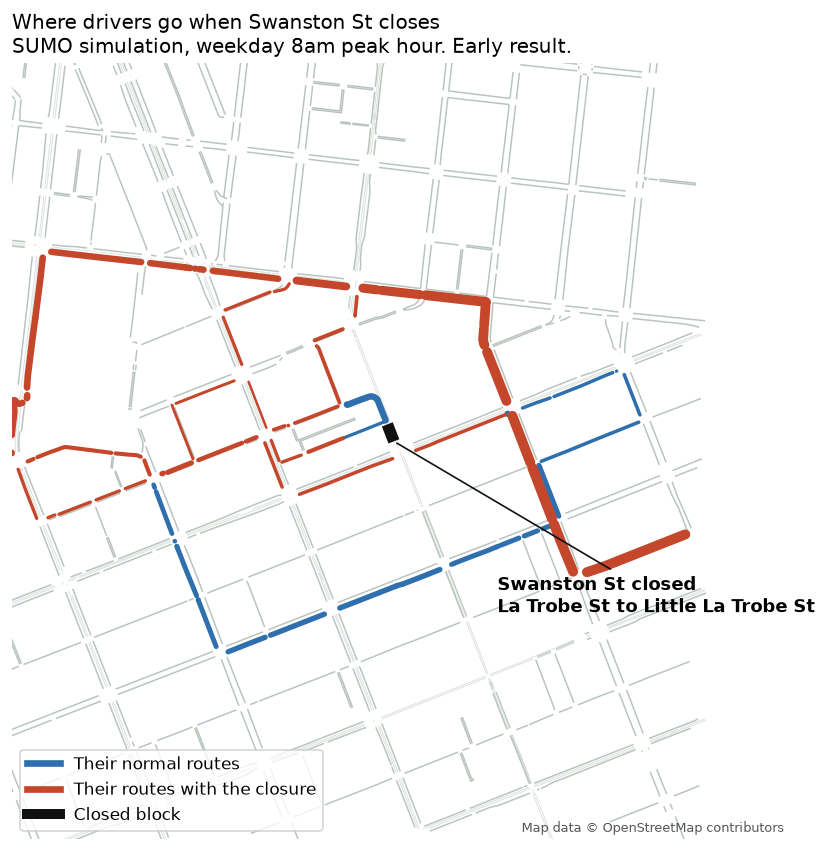
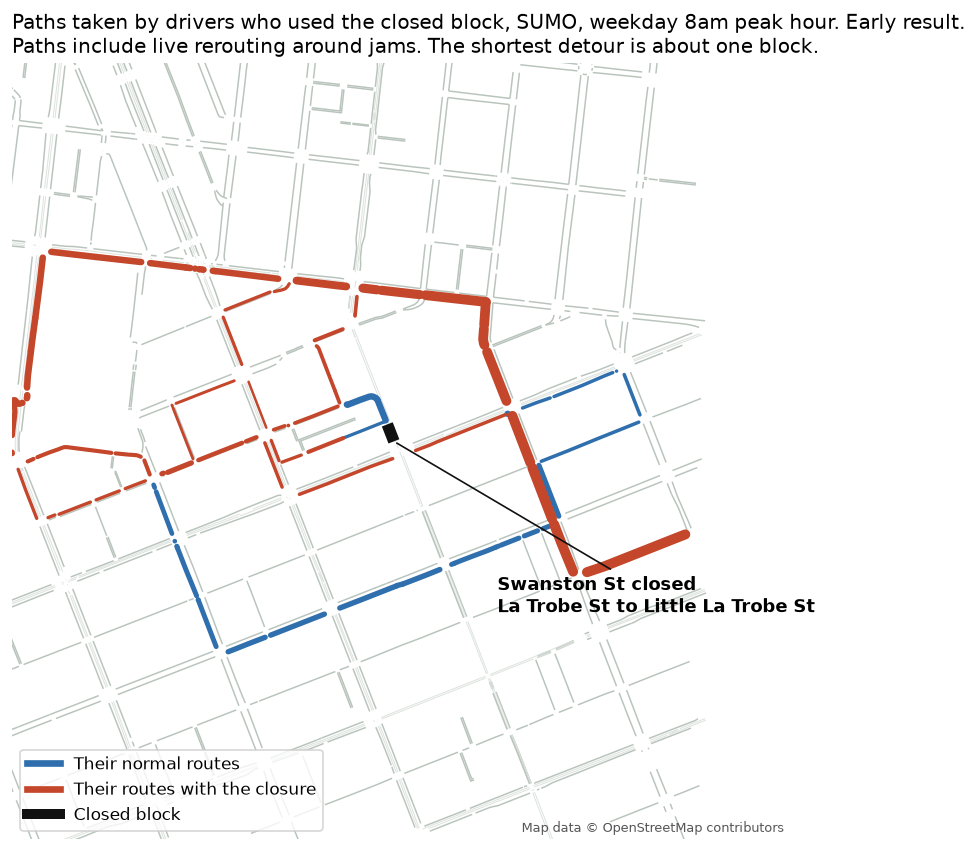
SUMO result: apply review fixes
Diversions become a range (44 to 100) since no count constrains the closed
lane. Detour shows the 7 m shortest way round and the 114 m simulated drivers
took. Queue dropped: it is within base-vs-base noise. Assumptions now state the
lost access to Little La Trobe St and the overloaded La Trobe St approach.
Image caption says paths include live rerouting.

diff --git a/model/sumo/05_to_impact_json.py b/model/sumo/05_to_impact_json.py
@@ -69,27 +69,33 @@ closed_edges = set(json.load(open(os.path.join(WORK, "demand_summary.json")))["c
 # sends cars through it as a shortcut around jams elsewhere. That is an artifact, so it is only reported.)
 affected = {el.get("id") for el in ET.parse(os.path.join(WORK, "affected.trips.xml")).getroot().iter("trip")}
 
-per_seed, detours = [], []
+def entered_block(d):
+    """Cars entering the closed block in the base run during the hour (edgedata covers exactly the hour)."""
+    return sum(float(e.get("entered", 0)) for e in ET.parse(os.path.join(d, "edgedata.xml")).getroot().iter("edge")
+               if e.get("id") in closed_edges)
+
+
+per_seed, detours, jams = [], [], []
 for seed in args.seeds:
     b, c = run_dir("base", seed), run_dir("closure", seed)
     tb, tc = trips(b), trips(c)
     both = tb.keys() & tc.keys()
-    # Diverted: drove the closed block in the normal run, so had to go another way with the closure.
     users = drove_block(b, closed_edges)
     hit = [v for v in both if v in affected]
     delay_all = sum(tc[v][0] - tb[v][0] for v in both) / 3600
     delay_hit = sum(tc[v][0] - tb[v][0] for v in hit) / 3600
     detours += [tc[v][1] - tb[v][1] for v in hit]
     jb, jc = max_jam(b), max_jam(c)
+    jams.append(jb)
     growth = {lane: jc.get(lane, 0) - jb.get(lane, 0) for lane in jc}
     worst_lane = max(growth, key=growth.get) if growth else None
     per_seed.append(dict(
         seed=seed, trips_in_hour_base=len(tb), trips_in_hour_closure=len(tc), matched=len(both),
-        diverted=len([v for v in tc if v in affected]), drove_block_in_base_run=len(users),
+        diverted_completed=len([v for v in tc if v in affected]), drove_block_in_base_run=len(users),
+        entered_block_in_base_run=entered_block(b),
         delay_veh_h_all=round(delay_all, 1), delay_veh_h_diverted=round(delay_hit, 1),
         delay_veh_h_others=round(delay_all - delay_hit, 1),
         max_queue_growth_m=round(growth[worst_lane], 1) if worst_lane else 0, worst_lane=worst_lane,
-        max_queue_closure_m=round(max(jc.values()), 1) if jc else 0,
         teleports_base=teleports(b), teleports_closure=teleports(c)))
 
 
@@ -98,21 +104,44 @@ def rng(key, unit):
     return {"low": round(vals[0]), "typical": round(statistics.median(vals)), "high": round(vals[-1]), "unit": unit}
 
 
-# Detour: extra length of the shortest route around the closure for each diverted trip (03_demand.py),
-# which depends only on the street network. The simulated distances are noisier because of live rerouting.
-static = json.load(open(os.path.join(WORK, "demand_summary.json")))["static_detour_m"]["sorted"]  # every 5%
-pick = lambda p: round(static[min(len(static) - 1, round(p * (len(static) - 1)))])
-detour = {"low": pick(0.25), "typical": pick(0.5), "high": pick(0.75), "unit": "m"}
+delay = rng("delay_veh_h_all", "vehicle-hours")
+
+# Diversions. No counter measures the closed lane, so give the spread of what the runs support:
+#   low      diverted trips that completed, scaled from --scale to full traffic
+#   typical  trips in the hour whose planned route used the block (full demand, no scaling)
+#   high     most cars entering the block in any base run, scaled to full traffic
+# (--scale keeps the same share of cars in every seed, so the completed count barely varies.)
+planned = sum(1 for el in ET.parse(os.path.join(WORK, "affected.trips.xml")).getroot().iter("trip") if t0 <= float(el.get("depart")) < t1)
+div_vals = sorted([round(min(s["diverted_completed"] for s in per_seed) / args.scale), planned,
+                   round(max(s["entered_block_in_base_run"] for s in per_seed) / args.scale)])
+diverted = {"low": div_vals[0], "typical": div_vals[1], "high": div_vals[2], "unit": "vehicles"}
+
+# Detour. Low is the shortest-distance detour on the closed network (the block, A'Beckett St, La Trobe St
+# and Elizabeth St form a rectangle, so it is tiny). Typical and high are what the simulated trips drove:
+# the median and upper quartile. duarouter picks the fastest route, and Little La Trobe St is a 20 km/h
+# living street, so the fastest detour is longer than the shortest one.
+net_full, net_closed = load_net(), sumolib.net.readNet(os.path.join(WORK, "net_closed.net.xml"))
+short = []
+for el in ET.parse(os.path.join(WORK, "affected.trips.xml")).getroot().iter("trip"):
+    if t0 <= float(el.get("depart")) < t1:
+        f, t = el.get("from"), el.get("to")
+        a = net_full.getShortestPath(net_full.getEdge(f), net_full.getEdge(t), vClass="passenger")
+        c = net_closed.getShortestPath(net_closed.getEdge(f), net_closed.getEdge(t), vClass="passenger")
+        if a[0] and c[0]:
+            short.append(c[1] - a[1])
 detours.sort()
-delay, diverted, queue = rng("delay_veh_h_all", "vehicle-hours"), rng("diverted", "vehicles"), rng("max_queue_growth_m", "m")
-# Diverted trips scale with traffic, so report them at full counts. Delay and queue don't scale simply, so they stay as simulated.
-diverted = {k: (round(v / args.scale) if k != "unit" else v) for k, v in diverted.items()}
-noisy = delay["low"] < 0 <= delay["high"] or delay["high"] < 0
-delay_text = ("The change in total travel time is too small to separate from run-to-run variation."
-              if noisy else f"Total extra travel time is about {delay['typical']:,} vehicle-hours.")
+q = lambda xs, p: round(xs[min(len(xs) - 1, int(p * len(xs)))]) if xs else 0
+detour = {"low": round(statistics.median(short)) if short else 0, "typical": q(detours, 0.5), "high": q(detours, 0.75), "unit": "m"}
+
+# Queue. The biggest jam growth on any lane is no bigger than the difference between two base runs,
+# so no queue result is reported.
+noise = [round(max(jams[i + 1].get(l, 0) - v for l, v in jams[i].items())) for i in range(len(jams) - 1)]
 hour_label = f"{args.hour % 12 or 12}{'am' if args.hour < 12 else 'pm'} to {(args.hour + 1) % 12 or 12}{'am' if args.hour + 1 < 12 else 'pm'}"
 demand = json.load(open(os.path.join(WORK, "demand_summary.json")))
 tele = max(s["teleports_closure"] for s in per_seed)
+noisy = delay["low"] < 0 <= delay["high"] or delay["high"] < 0
+delay_text = ("The change in total travel time is too small to separate from run-to-run variation."
+              if noisy else f"Total extra travel time is about {delay['typical']:,} vehicle-hours.")
 
 result = {
     "model": "sumo",
@@ -120,15 +149,15 @@ result = {
     "label": "Early result",
     "provenance": "precomputed",
     "confidence": "low",
-    "confidence_note": "The street network comes from OpenStreetMap with guessed signal timings, and traffic is fitted to signal counts, not measured routes.",
+    "confidence_note": "The street network comes from OpenStreetMap with guessed signal timings, traffic is fitted to signal counts rather than measured routes, and no counter measures the closed lane.",
     "period": f"Monday {hour_label}, the morning peak",
     "recommended_window": None,
     "modes": {
         "cars": {
             "status": "modelled",
-            "delay": delay, "max_queue": queue, "forced_diversions": diverted, "detour": detour,
-            "summary": f"In the morning peak hour about {diverted['typical']:,} drivers must avoid the closed block, "
-                       f"adding about {detour['typical']:,} m each. {delay_text}",
+            "delay": delay, "forced_diversions": diverted, "detour": detour,
+            "summary": f"In the morning peak, tens to about a hundred drivers an hour must avoid the closed block. "
+                       f"Most detour about one block, depending on route choice. {delay_text}",
         },
         "public_transport": {"status": "not modelled", "summary": "Trams are in the street network but no tram services were simulated."},
         "pedestrians": {"status": "not modelled", "summary": "SUMO can model pedestrians, but this run covers cars only."},
@@ -137,23 +166,25 @@ result = {
     "assumptions": [
         f"One simulated hour, {hour_label} on a weekday, after a 30 minute warm-up. Other hours of the works were not simulated.",
         "Street network from OpenStreetMap (© OpenStreetMap contributors), built with SUMO netconvert. Signal timings are guessed, not the real SCATS plans.",
-        f"Traffic fitted to weekday counts at {len(demand['counting_sites'])} SCATS signal sites in the CBD, including 2921 SWANSTON/LATROBE, using SUMO routeSampler and the SCATS weekday hourly profile."
-        + (f" Only {args.scale:.0%} of that traffic was inserted, because the simulated network jams above that (70% already grows without limit). Diversions are scaled back up to full traffic. Delay and queue are as simulated, so they are likely understated." if args.scale != 1 else ""),
-        f"Closure: the car lane of Swanston St between La Trobe St and Little La Trobe St ({', '.join(demand['closed_edges'])}) is closed to all vehicles. The rest of that block is tram only in OpenStreetMap.",
-        f"Drivers whose route used the closed block get a new shortest route before they leave, and every car can reroute every 5 minutes. {demand['removed_destination_cut_off_by_closure']:,} trips of {demand['sampled_trips']:,} ended at a place the closure cuts off and were removed from both runs.",
-        "Delay is the extra travel time of the same trips with and without the closure, over all trips in the hour. Negative values mean the closure run happened to flow better, which is run-to-run variation.",
-        "Queue is the largest growth in jam length on any lane within 600 m. The worst lane differs between seeds, so part of it is variation too.",
-        f"In OpenStreetMap the closed block is tram only apart from one northbound car lane, so few cars use it: about {round(statistics.median(s['diverted'] for s in per_seed) / args.scale):,} an hour at full traffic.",
-        f"Ranges come from {len(args.seeds)} random seeds (delay, diversions, queue). The detour range is the middle half of the shortest-route detours of the diverted trips.",
-        "Diversions count trips whose planned route used the closed block. SUMO's live rerouting also sent some cars through the block as a shortcut in the normal run; those are not counted.",
-        f"Cars stuck for 5 minutes are moved on by SUMO (teleported). Up to {tele:,} teleports in a closure run, which points to congestion the real network may not have.",
+        f"Traffic fitted to weekday counts at {len(demand['counting_sites'])} SCATS signal sites in the CBD, including 2921 SWANSTON/LATROBE, using SUMO routeSampler and the SCATS weekday hourly profile.",
+        (f"Only {args.scale:.0%} of that traffic was inserted. The counts are whole-intersection totals, and at site 2921 they all land on the two La Trobe St approaches, because both Swanston St approaches are tram only. "
+         "OpenStreetMap codes the eastbound approach as one lane, so it can't carry its share. The run therefore carries less than the counted traffic at this junction, and some cars never enter the network. Delay is likely understated.") if args.scale != 1 else
+        "Counts are whole-intersection totals, split across each junction's car approaches by lane count.",
+        f"Closure: the only car lane on Swanston St between La Trobe St and Little La Trobe St ({', '.join(demand['closed_edges'])}, northbound) is closed. The rest of the block is tram only in OpenStreetMap, as on the street.",
+        "That lane is the only car entry to Little La Trobe St and the east end of A'Beckett St, so the closure cuts car access to them. Trips ending there were removed from both runs rather than counted.",
+        f"Diversions: no counter measures the closed lane, so the range spans what the runs support: completed diverted trips, trips planned through the block, and the most cars entering it in a normal run (the last two scaled to full traffic).",
+        "Detour: the shortest way round is only a few metres, because nearby streets form a loop. The typical and high values are what simulated drivers actually drove, with live rerouting.",
+        f"Delay is the extra travel time of the same trips with and without the closure, over all trips in the hour, across {len(args.seeds)} random seeds. Negative values mean the closure run happened to flow better.",
+        f"Queue growth could not be separated from run-to-run variation. Normal runs differ from each other by {min(noise)} to {max(noise)} m on their worst lane, so no queue is reported.",
+        f"Cars stuck for 5 minutes are moved on by SUMO (teleported). Up to {tele:,} teleports in a closure run.",
         "Trams keep running in reality, but no tram services were simulated, so tram delays are not included.",
     ],
     "generated_at": datetime.datetime.now(datetime.timezone.utc).isoformat(timespec="seconds"),
 }
 os.makedirs(OUT, exist_ok=True)
 json.dump(result, open(os.path.join(OUT, "swanston.json"), "w"), indent=2, ensure_ascii=False)
-json.dump(dict(hour=args.hour, scale=args.scale, per_seed=per_seed, detour_m_quartiles=detour,
-               n_diverted_trips_matched=len(detours)), open(os.path.join(OUT, "summary.json"), "w"), indent=2)
+json.dump(dict(hour=args.hour, scale=args.scale, per_seed=per_seed, diversions=diverted, planned_in_hour=planned,
+               detour_m=detour, shortest_detours_m=sorted(round(x) for x in short), simulated_detour_quartiles_m=[q(detours, 0.25), q(detours, 0.5), q(detours, 0.75)],
+               n_diverted_trips_matched=len(detours), base_vs_base_worst_lane_m=noise), open(os.path.join(OUT, "summary.json"), "w"), indent=2)
 print(json.dumps(per_seed, indent=1))
 print("cars:", json.dumps(result["modes"]["cars"], indent=1))

diff --git a/model/sumo/06_plot.py b/model/sumo/06_plot.py
@@ -76,7 +76,8 @@ ax.annotate("Swanston St closed\nLa Trobe St to Little La Trobe St", (cx, cy), x
 
 ax.set_xlim(jx - args.radius, jx + args.radius); ax.set_ylim(jy - args.radius, jy + args.radius); ax.set_aspect("equal"); ax.axis("off")
 hour = f"{args.hour % 12 or 12}{'am' if args.hour < 12 else 'pm'}"
-ax.set_title(f"Where drivers go when Swanston St closes\nSUMO simulation, weekday {hour} peak hour. Early result.",
+ax.set_title(f"Paths taken by drivers who used the closed block, SUMO, weekday {hour} peak hour. Early result.\n"
+             "Paths include live rerouting around jams. The shortest detour is about one block.",
              fontsize=12, loc="left")
 ax.legend(handles=[Line2D([], [], color="#2f6fad", lw=4, label="Their normal routes"),
                    Line2D([], [], color="#c4462b", lw=4, label="Their routes with the closure"),

diff --git a/model/sumo/README.md b/model/sumo/README.md
@@ -7,7 +7,7 @@ An experiment. It simulates cars around the sample TGS closure (Swanston St clos
 ## What it does
 
 1. Downloads OpenStreetMap for the CBD and builds a SUMO street network (cars and trams).
-2. Builds weekday traffic that matches SCATS signal counts at about 70 CBD signal sites, including 2921 SWANSTON/LATROBE, hour by hour (SUMO routeSampler).
+2. Builds weekday traffic that matches SCATS signal counts at 52 CBD signal sites, including 2921 SWANSTON/LATROBE, hour by hour (SUMO routeSampler).
 3. Makes two versions of the same traffic: the normal street, and one where the Swanston St car lane on the closed block is shut. Trips that used the block get a new route. Trips that end at a place the closure cuts off are removed from both.
 4. Runs both for one hour (default 8am to 9am) after a 30 minute warm-up, for several random seeds.
 5. Compares the same trips across the two runs: extra travel time, how many drivers had to avoid the block, extra distance, and queue growth.
@@ -48,25 +48,27 @@ A normal one-hour run now takes 1 to 4 minutes and under 0.5 GB.
 
 ## Findings so far
 
-Weekday 8am to 9am, 6 random seeds, 50% of the counted traffic (`output/summary.json`):
+Weekday 8am to 9am, 6 random seeds, 50% of the counted traffic (`output/summary.json`). Reviewed by a second session on 30 Sep; its fixes are applied.
 
 | | Result |
 |---|---|
-| Drivers who must avoid the closed block | about 44 an hour at full traffic (22 simulated at 50%) |
-| Extra distance each | 227 m typical, 227 to 416 m for the middle half (shortest routes) |
+| Drivers who must avoid the closed block | tens to about a hundred an hour (44 to 100). No counter measures this lane. |
+| Extra distance each | 7 m shortest way round; simulated drivers went 114 m typical, 377 m upper quartile, with live rerouting |
 | Extra total travel time | −81 to +41 vehicle-hours across seeds: too small to separate from run-to-run variation |
-| Largest queue growth within 600 m | 53 to 184 m, on a different lane each seed, so partly variation |
+| Queue | not reported: two normal runs differ by 114 to 205 m on their worst lane, as much as any closure effect |
 | Teleports (cars stuck 5 minutes) | 36 to 72 per run |
 
-What this says: in OpenStreetMap the closed block is tram only apart from one northbound car lane, so few cars use it and a short detour absorbs them. This is much smaller than the lookup model's estimate (about 10,000 diversions a day), which assumes half of the intersection's 47,000 daily vehicles use Swanston St. The team should check which is closer to reality, for example with the SCATS detector counts for the Swanston approach at site 2921.
+What this says: the block's only car lane is a short northbound lane that must exit at Little La Trobe St or A'Beckett St. The rest is tram only, and Swanston St south of La Trobe St is permit only. So few cars use it. The lookup model's estimate (about 10,100 diversions a day) assumes half of site 2921's traffic uses Swanston St, but that traffic is on La Trobe St. The detector-level SCATS counts for site 2921 (the right-turn lane from La Trobe St westbound) would settle the real number.
 
 ## Not yet credible
 
-- **The network jams above 50% of the counted traffic.** 70% already grows without limit. Real signal plans, turn bans and hook turns are missing, and netconvert's junctions have less capacity than the real ones. Until that is fixed, delay and queue are understated.
-- **Delay and queue are within noise.** More seeds or longer runs would narrow them, but the network fix matters more.
-- **Live rerouting sends cars through the block as a shortcut in the base run** (40 to 69 an hour at 50%). Diversions count planned routes only.
-- **One hour only.** The TGS works run 7am to 10pm. Other hours were not simulated.
+- **No count constrains the closed lane.** SCATS counts are intersection totals, and routeSampler used the lane to fill the La Trobe St counts. 708 of the 1,067 daily trips through it share one origin and destination street, and one hour has 301 while others have 22 to 103. Hence the wide diversion range.
+- **The demand split overloads one approach.** At site 2921 the whole count lands on the two La Trobe St approaches, since both Swanston St approaches are tram only. OSM codes the eastbound one as one lane (about 800 cars an hour), against a target of 1,636 at full traffic. So the 50% run carries about a third of the count at this junction, and about 12% of cars never enter. Real signal plans and per-approach detector counts would fix this.
+- **Delay and queue are within noise.**
+- **Trips that lose access are removed, not counted.** The closed lane is the only car entry to Little La Trobe St and the east end of A'Beckett St.
+- **One hour only.** The TGS works run 7am to 10pm.
 - **No trams, pedestrians or trucks.** SUMO can do all three. Trams would need PTV GTFS timetables.
+- **Permit-only section.** netconvert let cars onto the permit-only section of Swanston St south of La Trobe St (OSM way 208505379). It doesn't connect to the La Trobe junction, but it adds some unrealistic traffic.
 
 ## History
 

diff --git a/PLAN.md b/PLAN.md
@@ -45,7 +45,7 @@ Claude reads the TGS analysis and the scan measurements, flags each conflict ("f
 The app must not be locked into one traffic model. Tamara may try other approaches, and SUMO is being tested. Order agreed by Tim on 30 Sep, 3:45am:
 
 1. **done** Impact input and output shapes (`lib/impact/types.ts`, written up in `model/IMPACT_CONTRACT.md`) and a switch, `IMPACT_MODEL`, that picks the model (`lib/impact/index.ts`). A model can be TypeScript in the app, a saved JSON result, or an outside service over HTTP. The report reads only the result, via `/api/impact`, and shows the method, confidence and assumptions.
-2. **done, early result** Plug-in: SUMO simulation of the Swanston closure (`model/sumo/`, README there). Precomputed, selected with `IMPACT_MODEL=sumo`, labelled "Early result", low confidence. About 44 drivers an hour must avoid the block and drive about 227 m further. Delay and queue changes are within run-to-run noise. Not yet credible: the simulated network jams above 50% of the counted traffic (no real signal plans), only 8am to 9am was run, and no trams, pedestrians or trucks. Slide image: `model/sumo/output/swanston-closure.png`.
+2. **done, early result** Plug-in: SUMO simulation of the Swanston closure (`model/sumo/`, README there). Precomputed, selected with `IMPACT_MODEL=sumo`, labelled "Early result", low confidence. Tens to about a hundred drivers an hour must avoid the block (44 to 100; no counter measures that lane), most detour about one block, and delay is within run-to-run noise. No queue is reported: it could not be separated from noise. Reviewed by a second session on 30 Sep and corrected. Not yet credible: the demand split overloads a one-lane La Trobe St approach so only 50% of counted traffic fits, only 8am to 9am was run, and no trams, pedestrians or trucks. Slide image: `model/sumo/output/swanston-closure.png`.
 3. **done** Plug-in: Tamara's model ported to TypeScript (`lib/impact/models/mvm-core.ts`), live, and the default. Matches the Python example exactly (night 11.9, day 428.6, 24 hours 1,022.0 vehicle-hours; check with `node_modules/.bin/jiti model/check_ts_port.ts`). "Road closed" runs as 0 lanes open on the lookup's level 3 fallback, and the plan's own hours drive the queue. Tamara's Python files are unchanged.
 4. **done** Demo consistency: Swanston naming, report text matching this TGS (tram corridor marked for review), the written severity rule (`lib/impact/severity.ts`), a saved demo analysis, and a tighter work hours prompt.
 
@@ -53,7 +53,7 @@ Questions for Tamara:
 - The `mvm_predict.py` docstring calls the worst case P10, but the code uses P90 (least traffic avoided the site). The port follows the code, and adds P10 as the "low" end of each range. Which is intended?
 - With the road fully closed, the queue model holds a 500 m queue for every hour of works, so delay mostly measures hours worked. The port ranks work windows by forced diversions in that case. Is that right?
 - The lookup has no "road closed" group. Could one be built from RADAR?
-- SUMO says about 44 drivers an hour use the closed Swanston block (one car lane, the rest is tram only). The lookup model assumes half of site 2921's 47,000 daily vehicles use Swanston St, so it predicts about 10,000 diversions a day. Can the SCATS detector counts for the Swanston approach settle which is closer?
+- SUMO says tens to about a hundred drivers an hour use the closed Swanston block (one car lane, the rest is tram only). The lookup model assumes half of site 2921's 47,000 daily vehicles use Swanston St, so it predicts about 10,000 diversions a day. Can the SCATS detector counts for the Swanston approach settle which is closer?
 
 ## 6. Impact model connected (later)
 
@@ -80,3 +80,4 @@ User accounts, error handling, tests on measurement and model code, AI cost limi
 - [30 Sep 4:00am] Tim: step 6a parts 1, 3 and 4 done. The report now reads a swappable impact result. Default model is Tamara's lookup, ported to TypeScript and live. SUMO plug-in in progress.
 - [30 Sep 4:15am] Tim: first SUMO run used 300 GB of memory and crashed the laptop (too much traffic, stuck cars kept in memory). Run script now has a 3 GB and 20 minute limit. Full and 30% demand still gridlocked from the Spring St / Victoria Pde junctions at the map's east edge, so the network is cut at Exhibition St and rebuilt.
 - [30 Sep 4:25am] Tim: SUMO works at 50% of counted traffic after cutting the network at Exhibition St and simplifying junctions and signals. Plugged in as an early, precomputed result. Far fewer diversions than the lookup model, flagged for Tamara.
+- [30 Sep 5:00am] Tim: a second session reviewed the SUMO work. Fixed without rerunning: diversions now a range (44 to 100), detour 7 m shortest vs 114 m driven, queue dropped as noise, access loss and demand split stated, image caption corrected.

diff --git a/STATUS.md b/STATUS.md
@@ -11,7 +11,7 @@ Done:
 ## Tim
 Now:
 Done:
-- [04:25] SUMO plug-in for Swanston, model/sumo/ (README there). Early result, low confidence, precomputed, `IMPACT_MODEL=sumo`. About 44 drivers an hour must avoid the block, about 227 m detour, delay within noise. Runs at 50% of counted traffic because the simulated network jams above that. Slide image in model/sumo/output/swanston-closure.png. The first run crashed the laptop (300 GB); runs are now capped at 3 GB and 20 minutes.
+- [04:25] SUMO plug-in for Swanston, model/sumo/ (README there). Early result, low confidence, precomputed, `IMPACT_MODEL=sumo`. Tens to about a hundred drivers an hour must avoid the block, most detour about one block, delay and queue within noise. Reviewed by a second session and corrected. Slide image in model/sumo/output/swanston-closure.png. The first run crashed the laptop (300 GB); runs are now capped at 3 GB and 20 minutes.
 - [04:00] Swappable impact models: contract (lib/impact/types.ts, model/IMPACT_CONTRACT.md), IMPACT_MODEL switch, written severity rule, Tamara's model ported to TypeScript and live as the default, report reads only the impact result and shows method and assumptions. Swanston naming and copy, saved demo TGS analysis, tighter work hours prompt. Commit bc59d87. Vercel preview built.
 - [branch tim] Real TGS analysis: Claude Sonnet 5.5 via Vercel AI Gateway reads the uploaded TGS and returns plan elements and scan points. About 20 s and 3.5 cents per run.
 
@@ -19,7 +19,7 @@ Review before merging `tim` into `main`:
 - Raina's doc changes that came with her branch: DESIGN.md is now "LOCKED" (it was "NOT SET"), the flow was replaced with her 9 screens, open questions were deleted from BRIEF.md, and "share sheet opens on return home" became an explicit Share button. Agree these as a team.
 - Swanston changes: the project is now "Swanston Street Work Zone". Report copy, the safety finding and two recommended actions were rewritten for this TGS. The safety finding and actions are still fixed demo copy, because scan measurement isn't connected. Trams and pedestrians show "Review required", not a rating, because no model covers them yet.
 - Default impact model: `mvm` (Tamara's lookup, run live in TypeScript). Nothing needs setting on Vercel. `IMPACT_MODEL=sumo` switches to the SUMO early result, which only covers the Swanston sample; other sites fall back to `mvm`.
-- The two models disagree a lot for Swanston: lookup about 10,100 diversions over the day, SUMO about 44 an hour at peak. The lookup assumes half of the intersection's traffic uses the closed block, which is mostly tram only. Decide which to show in the video, and say which it is.
+- The two models disagree a lot for Swanston: lookup about 10,100 diversions over the day, SUMO tens to about a hundred an hour at peak. The lookup assumes half of the intersection's traffic uses the closed block, which is mostly tram only. Decide which to show in the video, and say which it is.
 - Severity limits in lib/impact/severity.ts are a first cut by us. Check them with RPM Hire mentors and Tamara.
 - For Tamara: the P10/P90 docstring question, ranking windows by diversions when the road is closed, and whether a "road closed" group can be added. All in PLAN.md step 6a.
 - Known gap: every project, including "Elizabeth Street Closure", shows the Swanston result, because there is only one demo analysis.
